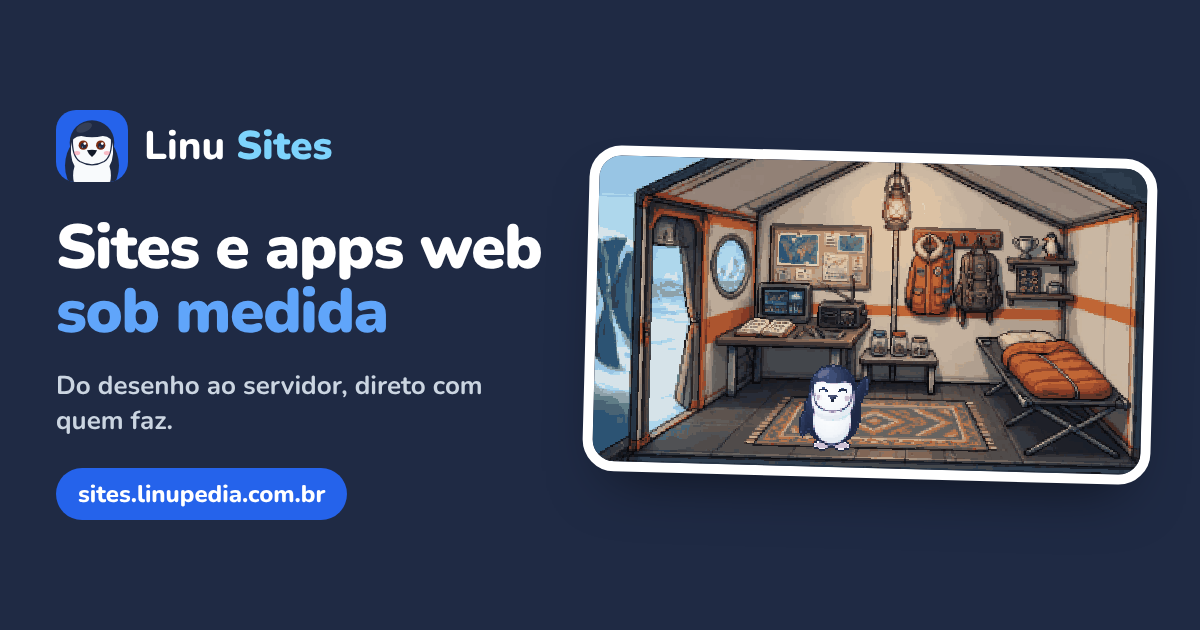
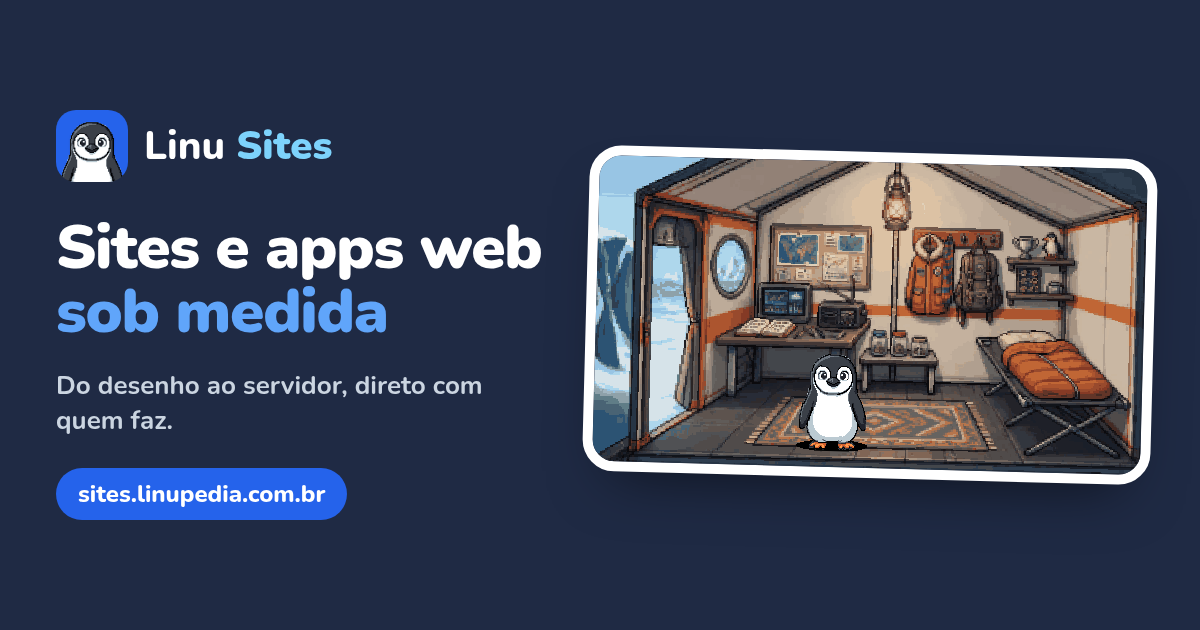
O Linu novo no site todo, como no app desde 24/10
- A logo e os ícones são os do app (img/linu-logo.png no lugar do linu.svg do Linu antigo).
- O Linu que entra na cena para trocar a luz é o do mapa do linuhub: frente, costas e os 4 passos de lado
  (172 × 190), com 61 de altura na cena, como no abrigo do app; o passo leva 150 ms, como lá.
- O Linu do contato, da página de erro e das páginas de projeto é o Linu novo acenando.
- A imagem de compartilhar foi refeita com o Linu novo (a Nunito local, sem Google Fonts).
- ferramentas/linu-do-app.py traz tudo do app de novo; saem o desenhar-linu-lado.py e o icone.html.
- LinuPedia no portfólio: 39 áreas do conhecimento (eram 37), como no README do app.

diff --git a/public/projetos/linupedia.html b/public/projetos/linupedia.html
@@ -4,15 +4,15 @@
   <meta charset="utf-8">
   <meta name="viewport" content="width=device-width, initial-scale=1">
   <title>LinuPedia — Linu Sites</title>
-  <meta name="description" content="Um app de idiomas que virou uma enciclopédia jogável: 197 idiomas e 37 áreas do conhecimento, no celular e no computador, funcionando até sem internet.">
+  <meta name="description" content="Um app de idiomas que virou uma enciclopédia jogável: 197 idiomas e 39 áreas do conhecimento, no celular e no computador, funcionando até sem internet.">
   <meta name="theme-color" content="#1F2A44">
   <meta http-equiv="Content-Security-Policy" content="default-src 'self'; img-src 'self' data:; font-src 'self'; style-src 'self'; script-src 'self'; connect-src 'self'; object-src 'none'; base-uri 'self'; form-action 'self'">
-  <link rel="icon" href="../img/linu.svg" type="image/svg+xml">
+  <link rel="icon" href="../img/linu-logo.png" type="image/png" sizes="128x128">
   <link rel="icon" href="../img/icone-32.png" type="image/png" sizes="32x32">
   <link rel="apple-touch-icon" href="../img/icone-180.png">
   <link rel="canonical" href="https://sites.linupedia.com.br/projetos/linupedia">
   <meta property="og:title" content="LinuPedia, por Linu Sites">
-  <meta property="og:description" content="Um app de idiomas que virou uma enciclopédia jogável: 197 idiomas e 37 áreas do conhecimento, no celular e no computador, funcionando até sem internet.">
+  <meta property="og:description" content="Um app de idiomas que virou uma enciclopédia jogável: 197 idiomas e 39 áreas do conhecimento, no celular e no computador, funcionando até sem internet.">
   <meta property="og:type" content="article">
   <meta property="og:url" content="https://sites.linupedia.com.br/projetos/linupedia">
   <meta property="og:locale" content="pt_BR">
@@ -28,7 +28,7 @@
   <header class="topo">
     <div class="dentro topo-dentro">
       <a class="marca" href="../" aria-label="Linu Sites, início">
-        <img src="../img/linu.svg" alt="" width="40" height="40">
+        <img src="../img/linu-logo.png" alt="" width="40" height="40">
         <span>Linu <b>Sites</b></span>
       </a>
       <nav class="menu" aria-label="Seções">
@@ -59,7 +59,7 @@
         <a class="caso-voltar" href="../#projetos">← Todos os projetos</a>
         <p class="etiqueta">App que instala</p>
         <h1>LinuPedia</h1>
-        <p class="abertura-sub">Um app de idiomas que virou uma enciclopédia jogável: 197 idiomas e 37 áreas do conhecimento, no celular e no computador, funcionando até sem internet.</p>
+        <p class="abertura-sub">Um app de idiomas que virou uma enciclopédia jogável: 197 idiomas e 39 áreas do conhecimento, no celular e no computador, funcionando até sem internet.</p>
         <div class="botoes">
           <a class="botao" href="https://linupedia.com.br" target="_blank" rel="noopener">Abrir linupedia.com.br</a>
         </div>
@@ -94,7 +94,7 @@
 
     <section class="secao contato" id="contato">
       <div class="dentro contato-dentro">
-        <img class="pixel contato-linu" src="../img/linu-pixel.png" alt="" width="139" height="190">
+        <img class="pixel contato-linu" src="../img/linu-pixel.png" alt="" width="138" height="190">
         <div>
           <h2>Quer algo assim para o seu negócio?</h2>
           <p>Conte o que você faz e o que imagina. Pode ser só uma ideia: a resposta vem com perguntas e próximos passos.</p>

diff --git a/public/index.html b/public/index.html
@@ -6,7 +6,7 @@
   <title>Linu Sites — sites e aplicativos web sob medida</title>
   <meta name="description" content="Sites de apresentação, ferramentas com painel e aplicativos que instalam no celular. A gente desenha, programa, publica e cuida do servidor.">
   <meta name="theme-color" content="#1F2A44">
-  <link rel="icon" href="img/linu.svg" type="image/svg+xml">
+  <link rel="icon" href="img/linu-logo.png" type="image/png" sizes="128x128">
   <link rel="icon" href="img/icone-32.png" type="image/png" sizes="32x32">
   <link rel="apple-touch-icon" href="img/icone-180.png">
   <meta property="og:title" content="Linu Sites">
@@ -33,7 +33,7 @@
   <header class="topo">
     <div class="dentro topo-dentro">
       <a class="marca" href="./" aria-label="Linu Sites, início">
-        <img src="img/linu.svg" alt="" width="40" height="40">
+        <img src="img/linu-logo.png" alt="" width="40" height="40">
         <span>Linu <b>Sites</b></span>
       </a>
       <nav class="menu" aria-label="Seções">
@@ -78,9 +78,9 @@
             <img class="pixel cena-acesa" src="img/abrigo-estacao-noite.png" alt="" width="344" height="192">
             <img class="pixel cena-apagada" src="img/abrigo-estacao-apagada.png" alt="" width="344" height="192">
             <span class="cena-linu" data-pose="frente">
-              <img class="pixel linu-frente" src="img/linu/linu-frente.png" alt="" width="52" height="61">
-              <span class="linu-lado"><img class="pixel" src="img/linu/linu-lado.png" alt="" width="208" height="61"></span>
-              <img class="pixel linu-costas" src="img/linu/linu-costas.png" alt="" width="52" height="61">
+              <img class="pixel linu-frente" src="img/linu/linu-frente.png" alt="" width="172" height="190">
+              <span class="linu-lado"><img class="pixel" src="img/linu/linu-lado.png" alt="" width="688" height="190"></span>
+              <img class="pixel linu-costas" src="img/linu/linu-costas.png" alt="" width="172" height="190">
             </span>
           </div>
           <figcaption>A estação do Linu, onde os sites são feitos.</figcaption>
@@ -136,7 +136,7 @@
             <div class="projeto-texto">
               <p class="etiqueta">App que instala</p>
               <h3>LinuPedia</h3>
-              <p>App de idiomas e enciclopédia jogável, com 197 idiomas e 37 áreas do conhecimento. Funciona offline no celular e no computador.</p>
+              <p>App de idiomas e enciclopédia jogável, com 197 idiomas e 39 áreas do conhecimento. Funciona offline no celular e no computador.</p>
               <p class="projeto-links">
                 <a class="projeto-link" href="projetos/linupedia">Como foi feito</a>
                 <a class="projeto-link" href="https://linupedia.com.br" target="_blank" rel="noopener">linupedia.com.br</a>
@@ -294,7 +294,7 @@
 
     <section class="secao contato" id="contato">
       <div class="dentro contato-dentro">
-        <img class="pixel contato-linu" src="img/linu-pixel.png" alt="" width="139" height="190">
+        <img class="pixel contato-linu" src="img/linu-pixel.png" alt="" width="138" height="190">
         <div>
           <h2>Conte sobre o seu site</h2>
           <p>Monte o seu site e veja na hora uma estimativa de preço e de prazo. Depois é só mandar por WhatsApp ou e-mail: a mensagem já sai escrita. Pode ser só uma ideia: a resposta vem com perguntas e próximos passos.</p>

diff --git a/public/css/estilo.css b/public/css/estilo.css
@@ -105,26 +105,27 @@ h1 { margin: 0; font-size: clamp(2.3rem, 5.5vw, 3.8rem); line-height: 1.05; font
 .janela { margin: 0; background: var(--cartao); border: 1px solid var(--linha); border-radius: var(--raio); padding: 12px; box-shadow: 0 18px 40px -20px rgba(15, 23, 42, .35); transform: rotate(1.5deg); }
 
 /* A cena do quarto do Linu (344 × 192, como no app): o dia, o lampião aceso e o lampião apagado
-   empilhados, e o Linu (52 × 61, pés na linha 182) que entra para trocar a luz. */
+   empilhados, e o Linu que entra para trocar a luz: 61 de altura, pés na linha 182, e o quadro do Linu novo
+   (172 × 190, ferramentas/linu-do-app.py) na mesma proporção, 55,2 de largura. */
 .cena { position: relative; aspect-ratio: 344 / 192; border-radius: 12px; overflow: hidden; background: #0B1220; }
 .cena > img { position: absolute; inset: 0; width: 100%; height: 100%; }
 .cena-acesa, .cena-apagada { opacity: 0; }
 @media (prefers-color-scheme: dark) { :root:not([data-theme="light"]) .cena-apagada { opacity: 1; } }
 :root[data-theme="dark"] .cena-apagada { opacity: 1; }
-.cena-linu { position: absolute; top: 63.02%; left: 0; width: 15.12%; height: 31.77%; opacity: 0; pointer-events: none; }
+.cena-linu { position: absolute; top: 63.02%; left: 0; width: 16.05%; height: 31.77%; opacity: 0; pointer-events: none; }
 .linu-frente, .linu-costas, .linu-lado { position: absolute; inset: 0; width: 100%; height: 100%; display: none; }
 .cena-linu[data-pose="frente"] .linu-frente,
 .cena-linu[data-pose="costas"] .linu-costas,
 .cena-linu[data-pose="direita"] .linu-lado,
 .cena-linu[data-pose="esquerda"] .linu-lado { display: block; }
-/* de lado é uma folha com 4 quadros de caminhada (ferramentas/desenhar-linu-lado.py), desenhados para a direita */
+/* de lado é uma folha com os 4 passos do linuhub (ferramentas/linu-do-app.py), desenhados para a direita */
 .linu-lado { overflow: hidden; }
 .linu-lado img { width: 400%; max-width: none; height: 100%; }
 .cena-linu[data-pose="esquerda"] .linu-lado { transform: scaleX(-1); }
 /* com a luz apagada, o Linu também fica no escuro */
 @media (prefers-color-scheme: dark) { :root:not([data-theme="light"]) .cena-linu { filter: brightness(.72); } }
 :root[data-theme="dark"] .cena-linu { filter: brightness(.72); }
-.cena-linu[data-andando] .linu-lado img { animation: linu-anda .5s steps(4) infinite; }
+.cena-linu[data-andando] .linu-lado img { animation: linu-anda .6s steps(4) infinite; }
 @keyframes linu-anda { to { transform: translateX(-100%); } }
 /* quando a cena do topo está fora da tela, a troca de luz aparece num cartão no canto */
 .cena-flutuante { position: fixed; right: 16px; bottom: 16px; z-index: 20; width: min(340px, calc(100vw - 32px)); background: var(--cartao); border: 1px solid var(--linha); border-radius: var(--raio); padding: 8px; box-shadow: 0 18px 40px -16px rgba(15, 23, 42, .5); }

diff --git a/public/projetos/v2tech.html b/public/projetos/v2tech.html
@@ -7,7 +7,7 @@
   <meta name="description" content="Para empresas de ônibus, transportadoras e frotas conferirem se o preço do diesel, da gasolina ou do etanol cobrado pela distribuidora faz sentido.">
   <meta name="theme-color" content="#1F2A44">
   <meta http-equiv="Content-Security-Policy" content="default-src 'self'; img-src 'self' data:; font-src 'self'; style-src 'self'; script-src 'self'; connect-src 'self'; object-src 'none'; base-uri 'self'; form-action 'self'">
-  <link rel="icon" href="../img/linu.svg" type="image/svg+xml">
+  <link rel="icon" href="../img/linu-logo.png" type="image/png" sizes="128x128">
   <link rel="icon" href="../img/icone-32.png" type="image/png" sizes="32x32">
   <link rel="apple-touch-icon" href="../img/icone-180.png">
   <link rel="canonical" href="https://sites.linupedia.com.br/projetos/v2tech">
@@ -28,7 +28,7 @@
   <header class="topo">
     <div class="dentro topo-dentro">
       <a class="marca" href="../" aria-label="Linu Sites, início">
-        <img src="../img/linu.svg" alt="" width="40" height="40">
+        <img src="../img/linu-logo.png" alt="" width="40" height="40">
         <span>Linu <b>Sites</b></span>
       </a>
       <nav class="menu" aria-label="Seções">
@@ -93,7 +93,7 @@
 
     <section class="secao contato" id="contato">
       <div class="dentro contato-dentro">
-        <img class="pixel contato-linu" src="../img/linu-pixel.png" alt="" width="139" height="190">
+        <img class="pixel contato-linu" src="../img/linu-pixel.png" alt="" width="138" height="190">
         <div>
           <h2>Quer algo assim para o seu negócio?</h2>
           <p>Conte o que você faz e o que imagina. Pode ser só uma ideia: a resposta vem com perguntas e próximos passos.</p>

diff --git a/public/projetos/losvega.html b/public/projetos/losvega.html
@@ -7,7 +7,7 @@
   <meta name="description" content="Roteiros de viagem personalizados, num site feito para ser o link da bio do Instagram.">
   <meta name="theme-color" content="#1F2A44">
   <meta http-equiv="Content-Security-Policy" content="default-src 'self'; img-src 'self' data:; font-src 'self'; style-src 'self'; script-src 'self'; connect-src 'self'; object-src 'none'; base-uri 'self'; form-action 'self'">
-  <link rel="icon" href="../img/linu.svg" type="image/svg+xml">
+  <link rel="icon" href="../img/linu-logo.png" type="image/png" sizes="128x128">
   <link rel="icon" href="../img/icone-32.png" type="image/png" sizes="32x32">
   <link rel="apple-touch-icon" href="../img/icone-180.png">
   <link rel="canonical" href="https://sites.linupedia.com.br/projetos/losvega">
@@ -28,7 +28,7 @@
   <header class="topo">
     <div class="dentro topo-dentro">
       <a class="marca" href="../" aria-label="Linu Sites, início">
-        <img src="../img/linu.svg" alt="" width="40" height="40">
+        <img src="../img/linu-logo.png" alt="" width="40" height="40">
         <span>Linu <b>Sites</b></span>
       </a>
       <nav class="menu" aria-label="Seções">
@@ -92,7 +92,7 @@
 
     <section class="secao contato" id="contato">
       <div class="dentro contato-dentro">
-        <img class="pixel contato-linu" src="../img/linu-pixel.png" alt="" width="139" height="190">
+        <img class="pixel contato-linu" src="../img/linu-pixel.png" alt="" width="138" height="190">
         <div>
           <h2>Quer algo assim para o seu negócio?</h2>
           <p>Conte o que você faz e o que imagina. Pode ser só uma ideia: a resposta vem com perguntas e próximos passos.</p>

diff --git a/public/projetos/marginalia.html b/public/projetos/marginalia.html
@@ -7,7 +7,7 @@
   <meta name="description" content="Publicação digital independente de História e humanidades, de Íris Chermont.">
   <meta name="theme-color" content="#1F2A44">
   <meta http-equiv="Content-Security-Policy" content="default-src 'self'; img-src 'self' data:; font-src 'self'; style-src 'self'; script-src 'self'; connect-src 'self'; object-src 'none'; base-uri 'self'; form-action 'self'">
-  <link rel="icon" href="../img/linu.svg" type="image/svg+xml">
+  <link rel="icon" href="../img/linu-logo.png" type="image/png" sizes="128x128">
   <link rel="icon" href="../img/icone-32.png" type="image/png" sizes="32x32">
   <link rel="apple-touch-icon" href="../img/icone-180.png">
   <link rel="canonical" href="https://sites.linupedia.com.br/projetos/marginalia">
@@ -28,7 +28,7 @@
   <header class="topo">
     <div class="dentro topo-dentro">
       <a class="marca" href="../" aria-label="Linu Sites, início">
-        <img src="../img/linu.svg" alt="" width="40" height="40">
+        <img src="../img/linu-logo.png" alt="" width="40" height="40">
         <span>Linu <b>Sites</b></span>
       </a>
       <nav class="menu" aria-label="Seções">
@@ -92,7 +92,7 @@
 
     <section class="secao contato" id="contato">
       <div class="dentro contato-dentro">
-        <img class="pixel contato-linu" src="../img/linu-pixel.png" alt="" width="139" height="190">
+        <img class="pixel contato-linu" src="../img/linu-pixel.png" alt="" width="138" height="190">
         <div>
           <h2>Quer algo assim para o seu negócio?</h2>
           <p>Conte o que você faz e o que imagina. Pode ser só uma ideia: a resposta vem com perguntas e próximos passos.</p>

diff --git a/ferramentas/compartilhar.html b/ferramentas/compartilhar.html
@@ -3,8 +3,8 @@
 <head>
 <meta charset="utf-8">
 <title>Imagem de compartilhamento</title>
-<link href="https://fonts.googleapis.com/css2?family=Nunito:wght@700;800;900&display=swap" rel="stylesheet">
 <style>
+  @font-face { font-family: "Nunito"; font-weight: 200 1000; src: url(../public/fontes/nunito-latin.woff2) format("woff2"); }
   /* 1200 × 630: a imagem que aparece quando alguém manda o link (WhatsApp, redes). Gerada por gerar-imagens.mjs. */
   html, body { margin: 0; }
   body { width: 1200px; height: 630px; background: #1F2A44; font-family: "Nunito", sans-serif; color: #FFFFFF; display: grid; grid-template-columns: 500px 1fr; align-items: center; gap: 40px; padding: 0 56px; box-sizing: border-box; overflow: hidden; }
@@ -18,12 +18,12 @@
   .cena { position: relative; width: 100%; aspect-ratio: 344 / 192; border-radius: 22px; overflow: hidden; outline: 10px solid #FFFFFF; transform: rotate(1.5deg); box-shadow: 0 30px 60px -20px rgba(0, 0, 0, .6); }
   .cena img { position: absolute; image-rendering: pixelated; }
   .fundo { inset: 0; width: 100%; height: 100%; }
-  .linu { left: calc((150 - 26) / 344 * 100%); top: 63.02%; width: 15.12%; height: 31.77%; }
+  .linu { left: calc((150 - 27.6) / 344 * 100%); top: 63.02%; width: 16.05%; height: 31.77%; }
 </style>
 </head>
 <body>
   <div>
-    <div class="marca"><img src="../public/img/linu.svg" alt=""><span>Linu <b>Sites</b></span></div>
+    <div class="marca"><img src="../public/img/linu-logo.png" alt=""><span>Linu <b>Sites</b></span></div>
     <h1>Sites e apps web <span>sob medida</span></h1>
     <p>Do desenho ao servidor, direto com quem faz.</p>
     <div class="url">sites.linupedia.com.br</div>

diff --git a/public/404.html b/public/404.html
@@ -6,7 +6,7 @@
   <title>Página não encontrada · Linu Sites</title>
   <meta name="robots" content="noindex">
   <meta name="theme-color" content="#1F2A44">
-  <link rel="icon" href="/img/linu.svg" type="image/svg+xml">
+  <link rel="icon" href="/img/linu-logo.png" type="image/png" sizes="128x128">
   <script src="/js/tema-inicio.js?v=5"></script>
   <link rel="stylesheet" href="/css/estilo.css?v=8">
 </head>
@@ -14,7 +14,7 @@
   <!-- Página de erro com código (22/10/2026): o Caddy mostra esta página em qualquer endereço que não existe
        (handle_errors no deploy/Caddyfile-bloco). Os links são absolutos porque ela abre em qualquer pasta. -->
   <main class="erro-pagina">
-    <img class="pixel" src="/img/linu-pixel.png" alt="" width="139" height="190">
+    <img class="pixel" src="/img/linu-pixel.png" alt="" width="138" height="190">
     <h1>Página não encontrada</h1>
     <p>O endereço pode ter mudado ou estar escrito errado. O Linu procurou na estação inteira e não achou.</p>
     <a class="botao botao-grande" href="/">Voltar ao início</a>

diff --git a/public/demos/cafe-aurora/index.html b/public/demos/cafe-aurora/index.html
@@ -8,7 +8,7 @@
 <meta name="theme-color" content="#05030a">
 <meta name="robots" content="noindex">
 <meta http-equiv="Content-Security-Policy" content="default-src 'self'; img-src 'self' data:; font-src 'self'; style-src 'self'; script-src 'self'; connect-src 'self'; object-src 'none'; base-uri 'self'; form-action 'self'">
-<link rel="icon" href="../../img/linu.svg" type="image/svg+xml">
+<link rel="icon" href="../../img/linu-logo.png" type="image/png" sizes="128x128">
 <link rel="preload" href="fontes/orbitron.woff2" as="font" type="font/woff2" crossorigin>
 <!-- Site de exemplo do Linu Sites: o Café Aurora não existe. Na página principal, ele aparece embutido
      (iframe) no simulador de preço, que liga e desliga as partes dele (ver script.js, "módulos"). -->

diff --git a/public/js/tema.js b/public/js/tema.js
@@ -14,7 +14,7 @@
   if (!botao) return;
 
   var CENA_W = 344;
-  var LINU_W = 52;
+  var LINU_W = 55.2;   // o quadro do Linu novo (172 × 190) com 61 de altura
   var PORTA = 50;      // x dos pés na soleira da porta
   var LAMPIAO = 185;   // embaixo do lampião
   var MS_POR_PIXEL = 7;

diff --git a/ferramentas/gerar-projetos.py b/ferramentas/gerar-projetos.py
@@ -21,7 +21,7 @@ PROJETOS = [
         'endereco': 'linupedia.com.br',
         'imagem': 'linupedia.webp',
         'alt': 'O linuhub da LinuPedia: o acampamento do Linu em pixel art, à noite, com a fogueira e os amigos dele',
-        'resumo': 'Um app de idiomas que virou uma enciclopédia jogável: 197 idiomas e 37 áreas do conhecimento, no celular e no computador, funcionando até sem internet.',
+        'resumo': 'Um app de idiomas que virou uma enciclopédia jogável: 197 idiomas e 39 áreas do conhecimento, no celular e no computador, funcionando até sem internet.',
         'desafio': 'Ensinar idiomas, e depois ciências, artes e lazer, para quem fala português: de graça para todos, sem anúncios, sem depender de internet e sem inventar nada. Cada fato e cada exemplo precisa vir com a fonte.',
         'feito': [
             'A trilha é uma aventura: um mapa que sai da Antártica e chega ao país do idioma, com travessias por rádio, decisões e conversa por voz.',
@@ -119,7 +119,7 @@ PAGINA = '''<!DOCTYPE html>
   <meta name="description" content="{resumo}">
   <meta name="theme-color" content="#1F2A44">
   <meta http-equiv="Content-Security-Policy" content="default-src 'self'; img-src 'self' data:; font-src 'self'; style-src 'self'; script-src 'self'; connect-src 'self'; object-src 'none'; base-uri 'self'; form-action 'self'">
-  <link rel="icon" href="../img/linu.svg" type="image/svg+xml">
+  <link rel="icon" href="../img/linu-logo.png" type="image/png" sizes="128x128">
   <link rel="icon" href="../img/icone-32.png" type="image/png" sizes="32x32">
   <link rel="apple-touch-icon" href="../img/icone-180.png">
   <link rel="canonical" href="{site}/projetos/{id}">
@@ -140,7 +140,7 @@ PAGINA = '''<!DOCTYPE html>
   <header class="topo">
     <div class="dentro topo-dentro">
       <a class="marca" href="../" aria-label="Linu Sites, início">
-        <img src="../img/linu.svg" alt="" width="40" height="40">
+        <img src="../img/linu-logo.png" alt="" width="40" height="40">
         <span>Linu <b>Sites</b></span>
       </a>
       <nav class="menu" aria-label="Seções">
@@ -198,7 +198,7 @@ PAGINA = '''<!DOCTYPE html>
 
     <section class="secao contato" id="contato">
       <div class="dentro contato-dentro">
-        <img class="pixel contato-linu" src="../img/linu-pixel.png" alt="" width="139" height="190">
+        <img class="pixel contato-linu" src="../img/linu-pixel.png" alt="" width="138" height="190">
         <div>
           <h2>Quer algo assim para o seu negócio?</h2>
           <p>Conte o que você faz e o que imagina. Pode ser só uma ideia: a resposta vem com perguntas e próximos passos.</p>

diff --git a/ferramentas/linu-do-app.py b/ferramentas/linu-do-app.py
@@ -1,0 +1,42 @@
+"""Traz o Linu novo do app (linupedia, em ~/Documentos/projetos/LinuPedia/meu-app-idiomas) para o site, como o app
+fez em 24/10/2026 (“O Linu novo em todo lugar”). Rode de novo quando o Linu mudar no app:
+
+    python3 ferramentas/linu-do-app.py [pasta do app]
+
+- img/linu/linu-frente.png e linu-costas.png: o Linu parado do mapa do linuhub (172 × 190, com a sombra);
+- img/linu/linu-lado.png: os 4 passos de lado numa folha só (688 × 190), desenhados para a direita;
+- img/linu-pixel.png: o Linu acenando (138 × 190), no contato, na página de erro e nas páginas de projeto;
+- img/linu-logo.png (128 px), icone-180.png e icone-32.png: a logo e os ícones do app.
+Tudo na cor padrão. Depois, rode o ferramentas/gerar-imagens.mjs para refazer a imagem de compartilhar.
+"""
+import sys
+from pathlib import Path
+from PIL import Image
+
+APP = Path(sys.argv[1]) if len(sys.argv) > 1 else Path.home() / 'Documentos/projetos/LinuPedia/meu-app-idiomas'
+IMG = Path(__file__).resolve().parent.parent / 'public/img'
+HUB = APP / 'assets/pixel/linuhub/linu-novo'
+
+
+def abrir(caminho):
+    return Image.open(caminho).convert('RGBA')
+
+
+def salvar(im, destino):
+    destino.parent.mkdir(parents=True, exist_ok=True)
+    im.save(destino, optimize=True)
+    print(destino.relative_to(IMG.parent), im.size)
+
+
+salvar(abrir(HUB / 'frente-padrao.png'), IMG / 'linu/linu-frente.png')
+salvar(abrir(HUB / 'costas-padrao.png'), IMG / 'linu/linu-costas.png')
+passos = [abrir(HUB / f'anda-lado-{n}-padrao.png') for n in range(1, 5)]
+folha = Image.new('RGBA', (passos[0].width * 4, passos[0].height))
+for i, passo in enumerate(passos):
+    folha.paste(passo, (i * passo.width, 0))
+salvar(folha, IMG / 'linu/linu-lado.png')
+salvar(abrir(APP / 'assets/pixel/linu-novo/acenando-padrao.png'), IMG / 'linu-pixel.png')
+salvar(abrir(APP / 'assets/logo/linu-logo.png').resize((128, 128), Image.LANCZOS), IMG / 'linu-logo.png')
+icone = abrir(APP / 'public/apple-touch-icon.png')
+salvar(icone.convert('RGB'), IMG / 'icone-180.png')
+salvar(icone.resize((32, 32), Image.LANCZOS).convert('RGB'), IMG / 'icone-32.png')
